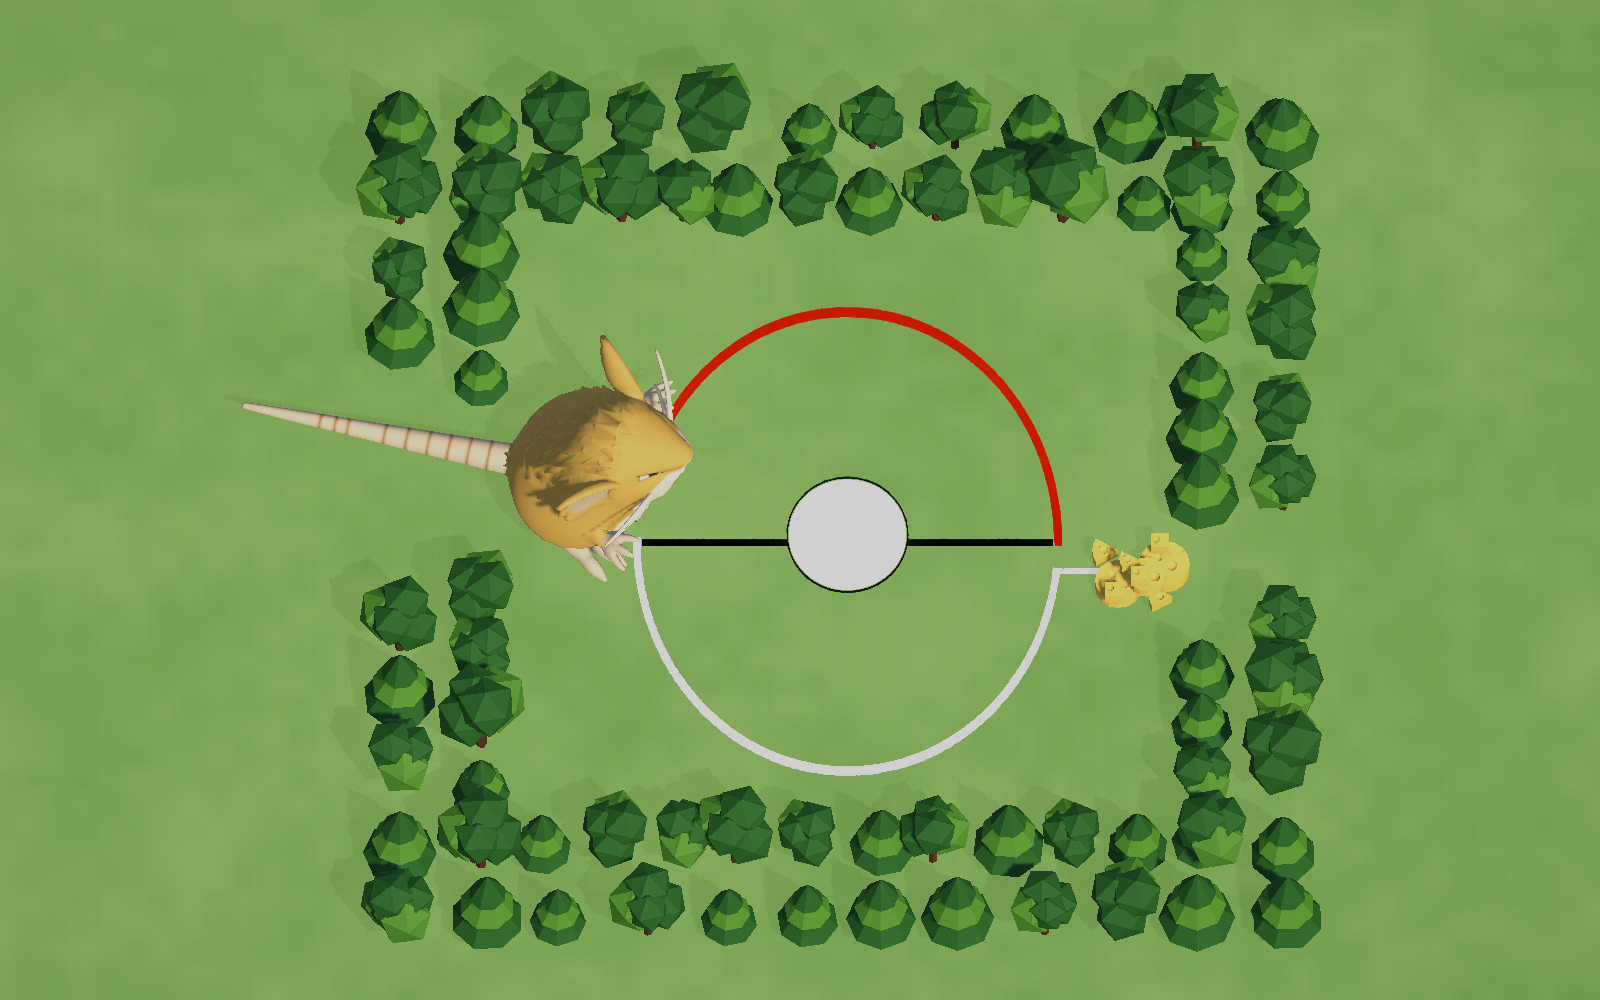
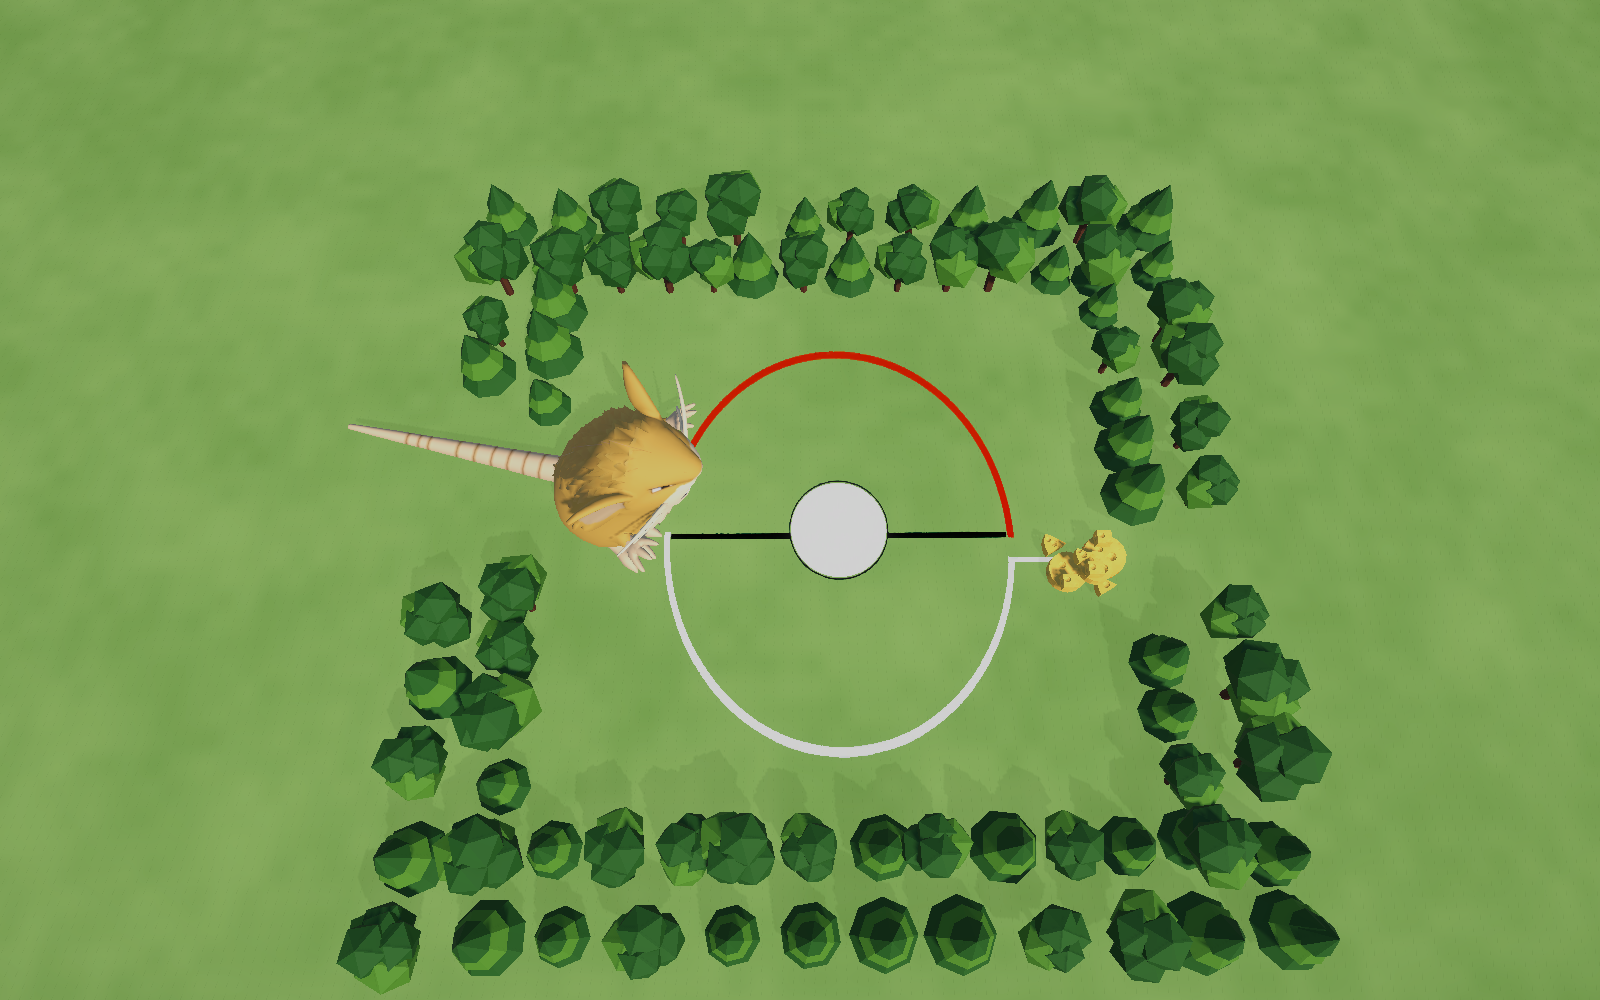
Restore original camera angle and perspective with wide framing

Changed region(s): [[0.1562, 0.062, 0.8438, 0.992], [0.5938, 0.341, 0.625, 0.372], [0.5625, 0.372, 0.5938, 0.403]]

diff --git a/ArtSource/EnvironmentExperimental/README.md b/ArtSource/EnvironmentExperimental/README.md
@@ -2,7 +2,7 @@
 
 Branch: experimental-environment, based on submission-ready main 8b9d4d7.
 
-- Reframed camera in orthographic view to keep the unchanged full-size Raticate visible. Offline check sampled 65 positions along the existing spline, using its travel direction.
+- Restored the original 67.2-degree tilt / 0.344-degree yaw and 60-degree perspective, with camera moved back for wide framing to keep the unchanged full-size Raticate visible. Offline check sampled 65 positions along the existing spline, using its travel direction.
 - Hid all four wall renderers, retaining their original enabled colliders, layers and placement clearance.
 - Added a continuous visual grass plane, without a collider or buildable tag. Main playable ground and spline colliders remain unchanged. ContinuousGrass.shader preserves the existing red/white/black track pixels over a shared procedural grass field, removing the original rectangular texture seams.
 - Created two original low-poly tree prototypes in Blender; 87 tree instances are baked into one forest mesh with 3 material slots. No tree physics, scripts, per-tree updates or external asset pack dependency. Openings at spawn and goal prevent nearby trees hiding the boss/end zone.
